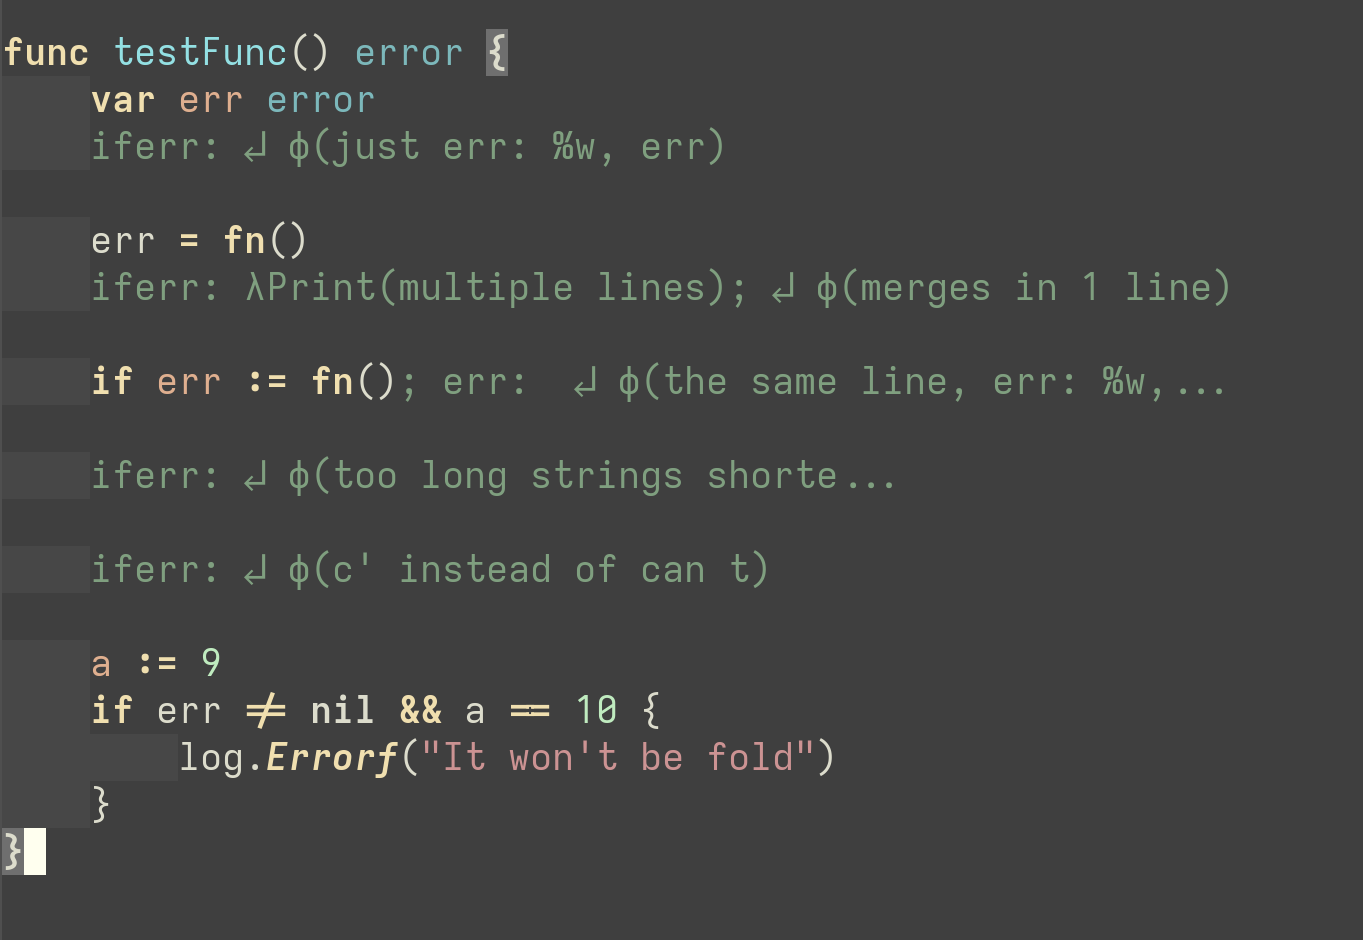
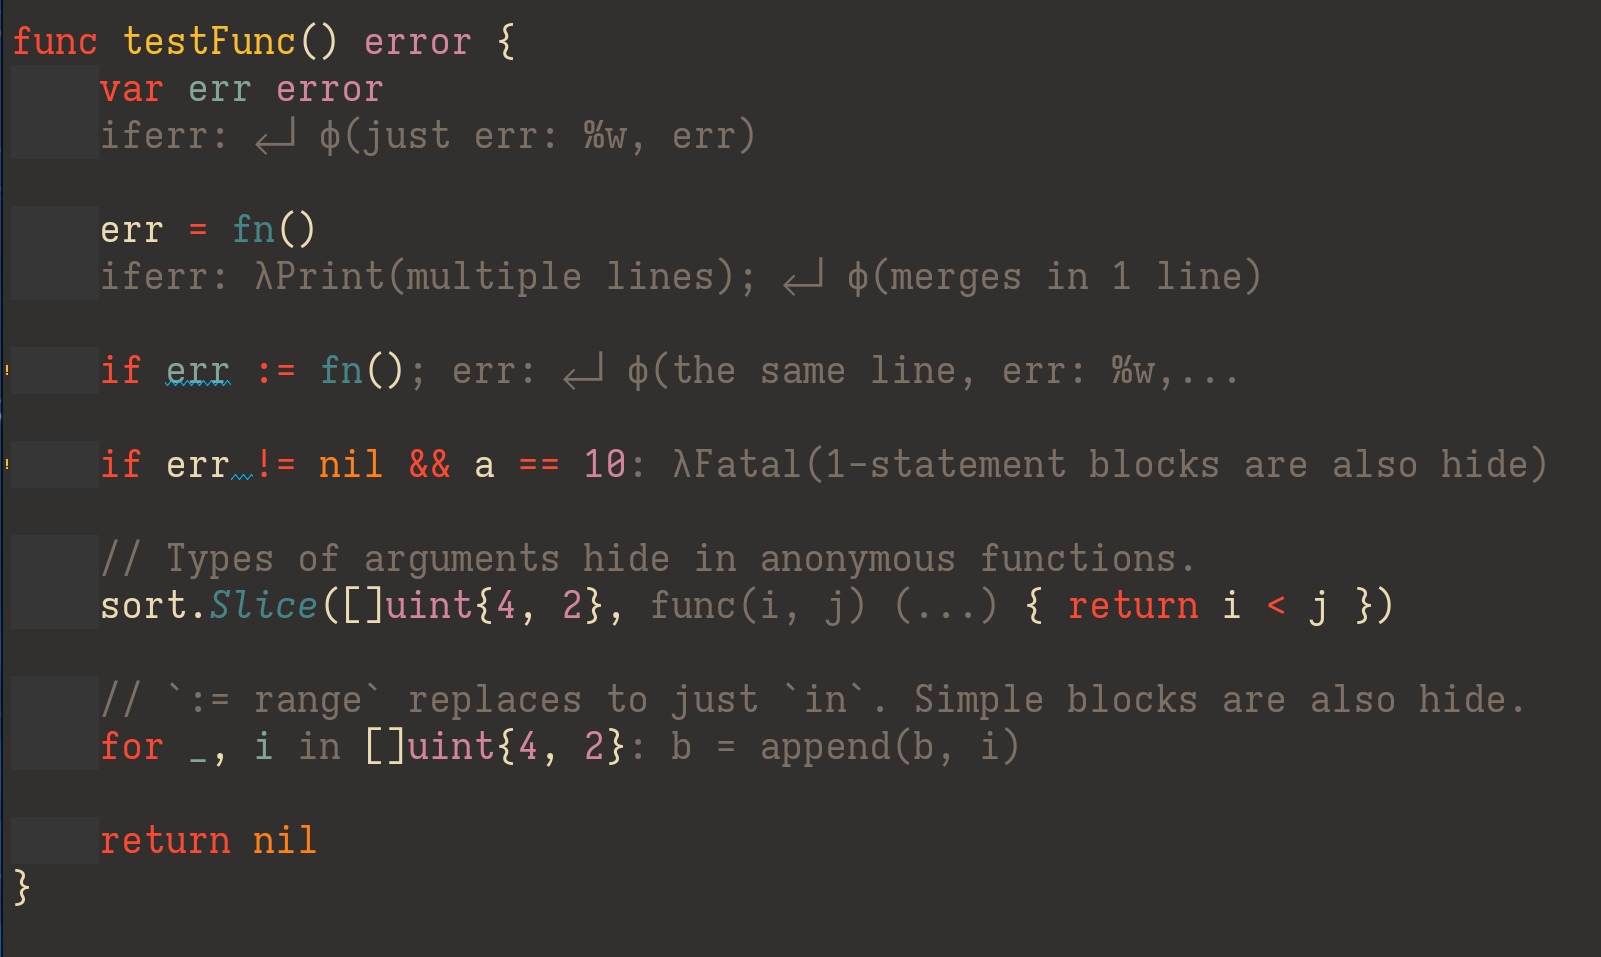
update README and comments

diff --git a/test.go b/test.go
@@ -1,7 +1,17 @@
 package main
 
 import (
+	"errors"
 	"fmt"
+	"log"
+	"sort"
+)
+
+func fn() error { return errors.New("abc") }
+
+var (
+	a = 9
+	b = []uint{}
 )
 
 func testFunc() error {
@@ -20,16 +30,17 @@ func testFunc() error {
 		return fmt.Errorf("the same line, err: %w", err)
 	}
 
-	if err != nil {
-		return fmt.Errorf("too long strings shorten")
-	}
-
-	if err != nil {
-		return fmt.Errorf("can't instead of can t")
-	}
-
-	a := 9
 	if err != nil && a == 10 {
-		log.Errorf("It won't be fold")
+		log.Fatal("1-statement blocks are also hide")
 	}
+
+	// Types of arguments hide in anonymous functions.
+	sort.Slice([]uint{4, 2}, func(i, j int) bool { return i < j })
+
+	// `:= range` replaces to just `in`. Simple blocks are also hide.
+	for _, i := range []uint{4, 2} {
+		b = append(b, i)
+	}
+
+	return nil
 }

diff --git a/README.md b/README.md
@@ -1,5 +1,5 @@
 # `go-prettify-mode.el`
-It is a minor mode for Emacs that replaces several Go statements, e.g. `if err != nil`, blocks with 1 code and `range` statement to make them shorter and more informative using overlays.
+It is a minor mode for Emacs that replaces several Go statements, e.g. `if err != nil`, blocks with 1 code, `range` statement and hide types in anonymous functions. All these make a code shorter and more informative using overlays.
 
 __Before:__
 
